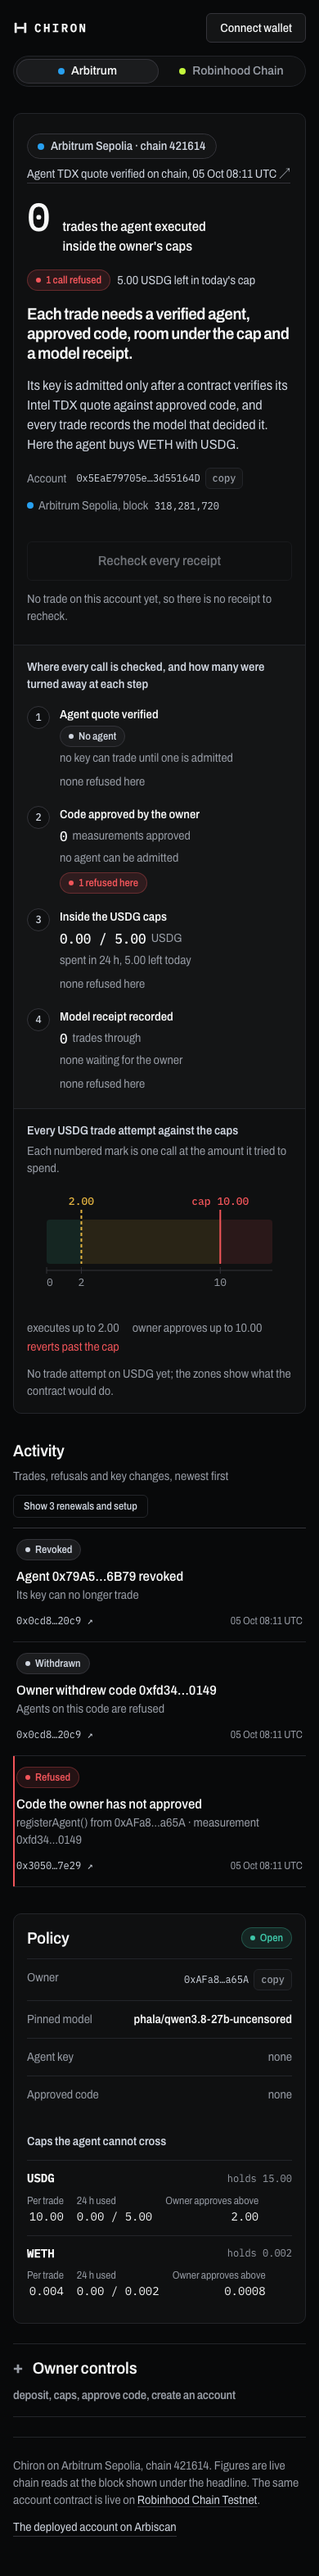
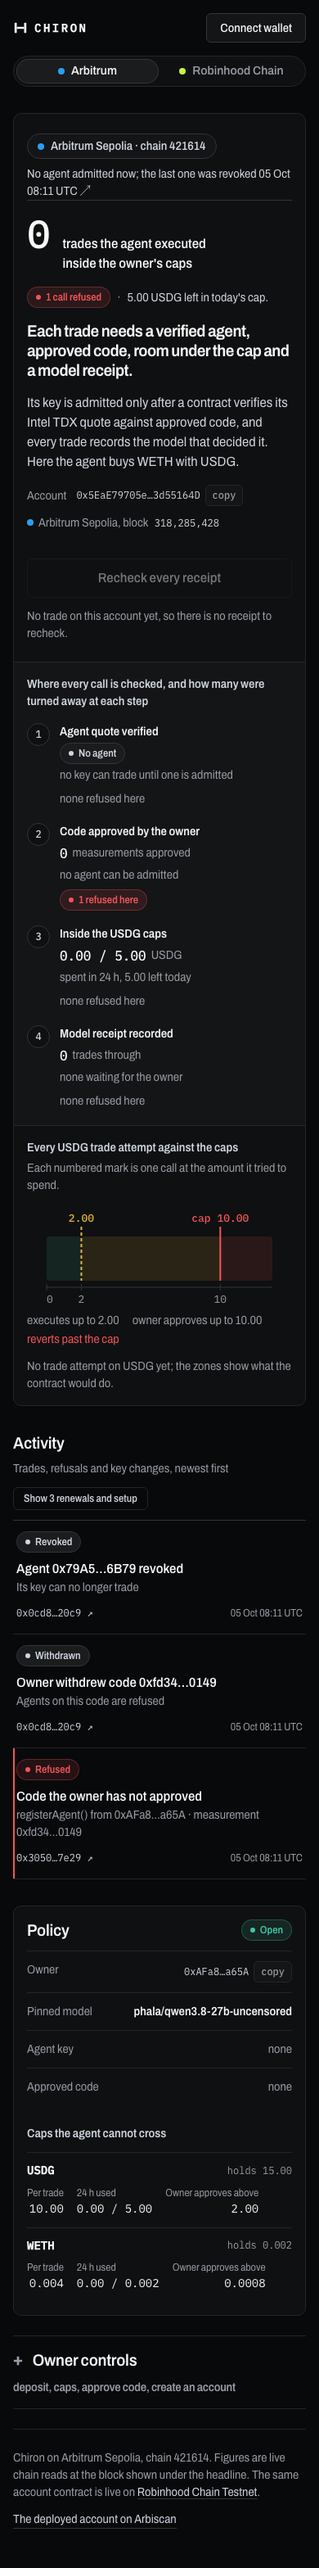
Web r12: trust link only for the currently admitted agent (revoked shown neutrally), scoped and separated refused-spend row, marks never moved off their amount (+k count, tested), compact attempt list and shorter chart on phones

diff --git a/web/src/components/CapRuler.tsx b/web/src/components/CapRuler.tsx
@@ -43,11 +43,9 @@ export function CapRuler({ token, rows }: { token: TokenRow; rows: GateRow[] }) 
     x: sx(n(r.spend!.amount)),
     kind: r.tone === 'refuse' ? 'refused' : r.tag === 'APPROVED' ? 'approved' : 'executed',
   }));
-  // Pack marks that share an outcome lane so two calls at one amount never cover each other.
-  for (const key of Object.keys(LANE) as Kind[]) {
-    const inLane = marks.filter((m) => m.kind === key).sort((a, b) => a.x - b.x);
-    for (let i = 1; i < inLane.length; i++) if (inLane[i].x - inLane[i - 1].x < 18) inLane[i].x = inLane[i - 1].x + 18;
-  }
+  // Marks stay at their true amount. Calls in one lane closer than 18px share one drawn mark with a "+k" count;
+  // the numbered list below still gives every call its own line.
+  const drawn = groupMarks(marks);
   /** "just over the cap" when an amount sits within 0.1% above a line it crossed. */
   const edge = (v: bigint) => {
     const a = n(v);
@@ -69,7 +67,7 @@ export function CapRuler({ token, rows }: { token: TokenRow; rows: GateRow[] }) 
         <p className="hint">Each numbered mark is one call at the amount it tried to spend.</p>
       </figcaption>
       <div ref={box} className="ruler-box">
-        <svg width={W} height={H} viewBox={`0 0 ${W} ${H}`} role="img" aria-label={`${token.symbol}: owner approves above ${above}, per-trade cap ${cap}. ${marks.length} attempts, listed below the chart.`}>
+        <svg width={W} height={narrow ? H - 30 : H} viewBox={`0 0 ${W} ${narrow ? H - 30 : H}`} role="img" aria-label={`${token.symbol}: owner approves above ${above}, per-trade cap ${cap}. ${marks.length} attempts, listed below the chart.`}>
           <rect className="z-ok" x={zones[0].a} y={TRACK_Y} width={zones[0].b - zones[0].a} height={TRACK_H} rx="4" />
           <rect className="z-warn" x={zones[1].a} y={TRACK_Y} width={zones[1].b - zones[1].a} height={TRACK_H} />
           <rect className="z-bad" x={zones[2].a} y={TRACK_Y} width={zones[2].b - zones[2].a} height={TRACK_H} rx="4" />
@@ -77,10 +75,11 @@ export function CapRuler({ token, rows }: { token: TokenRow; rows: GateRow[] }) 
           <line className="l-bad" x1={sx(cap)} x2={sx(cap)} y1={TRACK_Y - 12} y2={TRACK_Y + TRACK_H} />
           <text className="l-text" x={sx(above)} y={TRACK_Y - 18} textAnchor="middle">{narrow ? '' : 'approve above '}{fmtToken(token.limits.approvalAbove, d)}</text>
           <text className="l-text l-text-bad" x={sx(cap)} y={TRACK_Y - 18} textAnchor="middle">cap {fmtToken(token.limits.perTrade, d)}</text>
-          {marks.map((m) => (
+          {drawn.map(({ m, extra }) => (
             <g key={m.row.key} className={`mk mk-${m.kind}`}>
               <circle cx={m.x} cy={TRACK_Y + LANE[m.kind]} r="9" />
               <text x={m.x} y={TRACK_Y + LANE[m.kind] + 4} textAnchor="middle">{m.n}</text>
+              {extra > 0 && <text className="mk-more" x={m.x + 12} y={TRACK_Y + LANE[m.kind] - 6}>+{extra}</text>}
             </g>
           ))}
           <line className="axis" x1={PAD} x2={W - PAD} y1={TRACK_Y + TRACK_H + 8} y2={TRACK_Y + TRACK_H + 8} />
@@ -98,13 +97,13 @@ export function CapRuler({ token, rows }: { token: TokenRow; rows: GateRow[] }) 
       </div>
       {narrow && <p className="zone-key"><span>executes up to {fmtToken(token.limits.approvalAbove, d)}</span><span>owner approves up to {fmtToken(token.limits.perTrade, d)}</span><span className="bad">reverts past the cap</span></p>}
       {marks.length ? (
-        <ol className="attempts">
+        <ol className={`attempts${narrow ? ' attempts-compact' : ''}`}>
           {marks.map((m) => (
             <li key={m.row.key}>
               <span className={`an an-${m.kind}`} aria-hidden="true">{m.n}</span>
               <span className="tnum attempt-amt">{fmtToken(m.amount, d)} {token.symbol}</span>
               <span className={`attempt-word w-${m.kind}`}>{WORD[m.kind]}{edge(m.amount)}</span>
-              {m.kind === 'refused' && <span className="hint">{m.row.title.toLowerCase()}</span>}
+              {m.kind === 'refused' && !narrow && <span className="hint">{m.row.title.toLowerCase()}</span>}
             </li>
           ))}
         </ol>
@@ -113,4 +112,18 @@ export function CapRuler({ token, rows }: { token: TokenRow; rows: GateRow[] }) 
       )}
     </figure>
   );
+}
+
+/** Group marks that share an outcome lane and sit within 18px, so none covers another; x is never moved. */
+export function groupMarks<M extends { x: number; kind: string }>(marks: M[]): { m: M; extra: number }[] {
+  const out: { m: M; extra: number }[] = [];
+  for (const kind of [...new Set(marks.map((m) => m.kind))]) {
+    const lane = marks.filter((m) => m.kind === kind).sort((a, b) => a.x - b.x);
+    for (const m of lane) {
+      const last = out.length && out[out.length - 1].m.kind === kind ? out[out.length - 1] : undefined;
+      if (last && m.x - last.m.x < 18) last.extra++;
+      else out.push({ m, extra: 0 });
+    }
+  }
+  return out;
 }

diff --git a/web/src/pages/Account.tsx b/web/src/pages/Account.tsx
@@ -156,7 +156,12 @@ export function Account() {
     return [...new Set((pin?.accepted ?? []).map((h) => modelName(h) ?? short(h)))];
   }, [log.data]);
   const [checking, setChecking] = useState(false);
-  const admitted = activity?.find((r) => r.tag === 'ADMITTED');
+  // Trust link only for the agent that is admitted now: newest admission, not followed by a revoke, naming snap.agent.
+  const lastAdmit = activity?.find((r) => r.tag === 'ADMITTED');
+  const lastRevoke = activity?.find((r) => r.tag === 'REVOKED');
+  const admitIsCurrent = !!(activity && lastAdmit && snap && snap.agent !== ZERO_ADDR && lastAdmit.title.includes(short(snap.agent)) && (!lastRevoke || activity.indexOf(lastAdmit) < activity.indexOf(lastRevoke)));
+  const admitted = admitIsCurrent ? lastAdmit : undefined;
+  const revoked = !admitIsCurrent && snap && snap.agent === ZERO_ADDR ? lastRevoke : undefined;
   const blockedRows = lead && refusedRows ? refusedRows.filter((r) => r.spend && r.spend.token.toLowerCase() === lead.address.toLowerCase()) : undefined;
   const blocked = blockedRows ? blockedRows.reduce((a, r) => a + r.spend!.amount, 0n) : undefined;
   const left = lead ? (lead.limits.daily > lead.used ? lead.limits.daily - lead.used : 0n) : undefined;
@@ -175,6 +180,11 @@ export function Account() {
                   Agent TDX quote verified on chain{admitted.time !== undefined ? `, ${fmtWhen(admitted.time)}` : ''} ↗
                 </a>
               )}
+              {revoked && (
+                <a className="link trust-link trust-off" href={explorer.tx(revoked.tx)} target="_blank" rel="noreferrer">
+                  No agent admitted now; the last one was revoked{revoked.time !== undefined ? ` ${fmtWhen(revoked.time)}` : ''} ↗
+                </a>
+              )}
             </div>
             <div className="lead">
               <span className="lead-value tnum">{snap ? snap.tradeCount.toString() : '…'}</span>
@@ -182,8 +192,8 @@ export function Account() {
             </div>
             <p className="lead-sub">
               {refusedRows && <Chip tone={refusedRows.length ? 'bad' : 'neutral'}>{refusedRows.length} {refusedRows.length === 1 ? 'call' : 'calls'} refused</Chip>}
-              {blocked !== undefined && lead && blocked > 0n && <span>{fmtToken(blocked, lead.decimals)} {lead.symbol} asked for across {blockedRows!.length} refused {blockedRows!.length === 1 ? 'call' : 'calls'}, none of it spent</span>}
-              {left !== undefined && lead && <span>{fmtToken(left, lead.decimals)} {lead.symbol} left in today&apos;s cap</span>}
+              {blocked !== undefined && lead && blocked > 0n && <span>{blockedRows!.length} of them asked for {fmtToken(blocked, lead.decimals)} {lead.symbol}, none of it spent.</span>}
+              {left !== undefined && lead && <span>{fmtToken(left, lead.decimals)} {lead.symbol} left in today&apos;s cap.</span>}
             </p>
             <h1 id="hero-h" className="t-display">Each trade needs a verified agent, approved code, room under the cap and a model receipt.</h1>
             <p className="lede">

diff --git a/web/src/styles.css b/web/src/styles.css
@@ -193,6 +193,10 @@ button, input, select { font: inherit; color: inherit; }
 .attempts li > .an { grid-row: 1 / span 3; }
 .attempts li > :not(.an) { grid-column: 2; }
 .attempts .hint { padding-left: 0; }
+.attempts-compact li { display: flex; flex-wrap: wrap; align-items: center; gap: 2px var(--sp-2); }
+.mk-more { fill: var(--ink-muted); font: 600 var(--fs-12) var(--font-mono); }
+.lead-sub > span + span::before { content: '·'; margin-right: var(--sp-2); color: var(--ink-subtle); }
+.trust-off { color: var(--ink-muted); }
 .an { display: inline-grid; place-items: center; width: 20px; height: 20px; border-radius: 50%; font: 600 12px/1 var(--font-mono); color: var(--canvas); }
 .an-executed { background: var(--ok); } .an-refused { background: var(--bad); }
 .an-approved { background: transparent; color: var(--ok); box-shadow: inset 0 0 0 2px var(--ok); }

diff --git a/web/src/components/CapRuler.test.ts b/web/src/components/CapRuler.test.ts
@@ -1,0 +1,20 @@
+import { describe, expect, it } from 'vitest';
+import { groupMarks } from './CapRuler';
+
+describe('groupMarks', () => {
+  it('keeps every mark at its true amount and folds same-lane neighbours into a count', () => {
+    const marks = [
+      { x: 300, kind: 'refused' },
+      { x: 300, kind: 'refused' },
+      { x: 300, kind: 'executed' },
+      { x: 100, kind: 'refused' },
+    ];
+    const g = groupMarks(marks);
+    expect(g.map((d) => d.m.x).sort()).toEqual([100, 300, 300]);
+    expect(g.find((d) => d.m.kind === 'refused' && d.m.x === 300)!.extra).toBe(1);
+    expect(g.find((d) => d.m.kind === 'executed')!.extra).toBe(0);
+  });
+  it('draws marks 18px or more apart separately', () => {
+    expect(groupMarks([{ x: 0, kind: 'refused' }, { x: 18, kind: 'refused' }]).length).toBe(2);
+  });
+});

diff --git a/web/docs/design/review/design-audit-chiron-r11.md b/web/docs/design/review/design-audit-chiron-r11.md
@@ -1,0 +1,133 @@
+# CHIRON agent-account page: design audit, round 11
+
+Mode: AUDIT ONLY. No source edits, no server, no commits, no browser run (by instruction). Evidence: `docs/design/r11-1440.png`, `r11-390.png`, `r11-full-1440.png`, `r11-full-768.png`, `r11-full-390.png`, `r11-arb-1440.png`, `r11-arb-390.png`, `r11-arb-full-1440.png`, `r11-arb-full-768.png`, `r11-arb-full-390.png`; `r10-full-390.png` for the phone delta; `DESIGN.md` (still byte-identical to `docs/design/DESIGN-CONTRACT.md`), `src/tokens.css`, `src/styles.css`, `src/components/{CapRuler,Chip}.tsx`, `src/pages/Account.tsx`, `src/pages/account/gateRows.ts`; `design-research/tools/{contrast,overlap}.cjs`; commit `811292f` (`git show 811292f -- web/src`). The phone position of the Activity heading comes from 1:1 crops of the r10 and r11 full 390 captures over the same y band (1,800-2,800). Previous report: `design-audit-chiron-r10.md` (checked below).
+
+Classifier: OPERATE (app UI, one account console). App UI rules apply.
+
+Design Score: B-
+AI Slop Score: B
+
+Verdict in one line: round 11 closes four of the six r10 Mediums. The blocked chip pluralizes ("1 call refused"). The spend figure now says what it is ("15.000001 testUSDG asked for across 3 refused calls, none of it spent"). One noun, refused, runs through hero, strip, chart and feed. The attempt list sits on a clean two-column grid. Same-lane marks are packed, and the `--fs-13`/`--fs-64` tokens and the `styles.css` comment are fixed. It also leaves a false trust signal on Arbitrum: the hero says "Agent TDX quote verified on chain, 05 Oct 08:11 UTC" while gate 1 says "No agent" and the feed shows that agent revoked. The phone pushes Activity down another ~72px, and the new packing moves marks along the amount axis, which only data with no collisions has ever tested. Net: cleaner finish, one new High, same grade.
+
+## First impression
+
+- The page communicates **"3 trades went through, 4 calls were refused, nothing refused was spent"**. On RHC that is the brief's sentence, and it reads in the first viewport at both widths.
+- I notice **the metric row is now one run-on line at 1440**: `4 calls refused` chip, then "15.000001 testUSDG asked for across 3 refused calls, none of it spent", then 8px of gap, then "5.00 testUSDG left in today's cap" (`r11-1440.png` y~313). With the r10 semicolon gone and nothing in its place, it reads as "none of it spent 5.00 testUSDG left". The chip says 4 and the clause beside it says 3, and nothing tells the reader which call is the odd one.
+- First three things my eye goes to: **the "3"**, **the lime "Recheck every receipt" slab**, **the bold 28px headline**. The red chip is still fourth. Unchanged from r10.
+- One word: **tidier**.
+
+Page area test at 1440: top bar, hero (metric + action), four checks, caps chart, Activity, Policy, Owner controls, footer. All nameable in under 2 seconds. Trunk test: PASS.
+
+## Round 10 findings, checked against round 11
+
+| R10 finding | Status in r11 | Evidence |
+|---|---|---|
+| 001 "1 calls blocked" (Medium) | **Fixed** | `Account.tsx:184` branches on `length === 1`; `r11-arb-390.png` y~341 and `r11-arb-full-1440.png` y~313 read "1 call refused". |
+| 002 "stopped" figure overstates (Medium) | **Fixed in wording, residue moved to FINDING-002** | `Account.tsx:185` now reads "{sum} {symbol} asked for across {n} refused calls, none of it spent". That is true as written. It still adds up the owner's `approveTrade()` (4.00) and would grow with retries, but it no longer claims to measure trades stopped. "Refused" is now the only noun on the page. The semicolon is gone. What is left: the 4-vs-3 mismatch and the run-on with the next clause. |
+| 003 ragged attempt list (Medium) | **Fixed** | `styles.css:191-195`: `.attempts { align-items: start }`, each `li` is a `20px 1fr` grid with the badge spanning three rows. In `r11-full-1440.png`, items 1-3 are top-aligned and amount, outcome and reason share one left edge. The cost is on phones (FINDING-003). |
+| 004 same-outcome marks cover each other (Medium) | **Fixed for overlap, new encoding defect** | `CapRuler.tsx:46-50` sorts each lane by x and pushes any mark within 18px of its neighbor 18px right. Marks no longer cover each other, but x no longer means amount for the pushed mark. There is no unit test, and the current data never triggers it. See FINDING-004. |
+| 005 non-text contrast lines are constants (Medium) | **Not fixed (third round)** | `contrast.cjs:49` still builds the five 1.4.11 pairs from hard-coded hex. No `contrast-r11.txt` exists, so AA was not re-measured after the r11 changes. See FINDING-005. |
+| 006 phone Activity ~266px later than r9 (Medium) | **Worse** | Same y band in both captures: r10 heading ~2,166px, r11 ~2,238px (+72px). Cumulative since r9 (~1,898px): +340px. See FINDING-003. |
+| Polish: `styles.css:211` "policy first on phones" | **Fixed** | Now `styles.css:213` "Activity before Policy on phones". |
+| Polish: `--fs-13` and 64px literals | **Fixed, two new literals** | `tokens.css:28` adds `--fs-13` and `--fs-64`, used at `styles.css:175,179,182,207`. New: `.lead-value { font-size: 48px }` on phones (`:279`). Mark numerals stay `12px` literals (`:184`, `:196`). `DESIGN.md:8` and `:24` still list the scale as 12-44 and omit 48 and 64. |
+| Polish: `DESIGN.md:21` false "never cover" claim | **True for overlap, misleading for meaning** | Now backed by packing code. It does not mention that packed marks leave their amount. |
+| Polish: `.tnum` twice, `.ledger-head` split | **Not fixed** | `styles.css:20-21`; `.ledger-head` at `:217`, `:291`, `:296` (the last two in one media block). |
+| Polish: `DESIGN.md` and `DESIGN-CONTRACT.md` duplicated | **Not fixed** | `cmp` reports identical. |
+| Polish: `spentToken` double `try` | **Not fixed** | `gateRows.ts:121` wraps `spentBy`, which already catches at `:109`. |
+| Polish: boundary marks on threshold lines | **Not fixed (since r8)** | Mark 4 is centered on the amber dashed line and mark 3 on the red cap line (`r11-full-1440.png` x~350 and x~1,003 at 1:1; `r11-full-390.png` crop x~98, x~268). |
+| Polish: hero label wrap, empty right column, headline weight, mixed scope, trust-link styling, marks not linked to rows, Arbitrum empty column | **Not fixed** | All visible unchanged in `r11-1440.png` and `r11-arb-full-1440.png`. |
+
+## Brief compliance (Web3-grade rules)
+
+| Rule | Delivered | Gap |
+|---|---|---|
+| (1) Lead with the primary metric | The 64px mono figure leads on both chains and both widths (`r11-390.png` y~265). | "3" is `snap.tradeCount` over all tokens (it includes "Trade 3", the Paxos USDG buy). The chart beside it shows 2 executed testUSDG marks. On Arbitrum the lead is a 64px "0": an empty state rendered as a headline number. |
+| (2) Every number states what it means | Refused count, "asked for ... none of it spent", cap left today, refusals per check, a numbered list with outcome, distance past the line and reason. | "4 calls refused" beside "across 3 refused calls": two denominators next to each other with no bridge (FINDING-002). |
+| (3) Semantic colors plus one accent | Four tones plus the network accent, true in tokens, `Chip.tsx`, chart and feed. | The non-text contrast evidence is still constant (FINDING-005). |
+| (4) Plain-language summary before every signed action | Five `.sign-summary` blocks, unchanged since r10 (`Account.tsx:45`, `OwnerActions.tsx`). | Still not observed rendered: Owner controls are collapsed in every capture and there is no wallet-connected capture. |
+| (5) Trust signals | Network badge with chain id, timestamped admission link, block stamp with network dot, explorer link and UTC time per row. | On Arbitrum the admission link vouches for an agent the owner has revoked (FINDING-001). The strongest claim on the page is still styled as a 14px underline. |
+
+## Axes (0-10)
+
+| Axis | Score | Evidence |
+|---|---|---|
+| Hierarchy | 8.0 | The figure still leads and the refused chip is beside it. Unchanged losses: the 28px bold mechanism headline is the third-heaviest object; ~290px of empty right column under the recheck hint at 1440 (`r11-1440.png` y~272-563); the 22ch cap wraps the lead label with ~500px free. New: the metric row's clauses run together at 1440. |
+| Typography | 8.0 | Up from 7.5. The attempt list has one left edge per item, the dangling semicolon is gone, and 13 and 64 are tokens. Losses: a 48px phone literal and two 12px literals; `DESIGN.md` scale omits 48 and 64; the lead label still hangs ~30px below the numeral's baseline. |
+| Color | 8.5 | Unchanged. A strict four-tone system plus one network accent; the owner-approved trade is mint everywhere. The non-text contrast lines still cannot fail. Lime on near-black stays the predictable crypto look, rescued by no glow or gradient. |
+| Density | 6.0 | Down from 6.5. Phone Activity heading at ~2,238px (r9 ~1,898, r10 ~2,166). Every attempt item now takes 2-3 lines at 390 because outcome moved to its own grid row (`r11-full-390.png` crop: five items span ~360px). The chart keeps a fixed 150px SVG with ~45px dead under the ticks once zone labels leave. Arbitrum 1440 still has ~300px of empty column under a three-row feed. The Arbitrum chart spends ~270px to say no attempt exists. |
+| Components | 7.5 | Up from 7.0. The chip pluralizes, the attempt list grid is right, and marks no longer collide. Losses: packing moves marks along the amount axis with no test (FINDING-004); marks still do not link to feed rows; `.tnum` and `.ledger-head` still duplicated; `spentToken` dead `try`. |
+| Mobile | 7.0 | Down from 7.5. The metric, chip and recheck button still sit in the first 390x844 viewport, with no horizontal scroll. Losses: Activity is later again; the metric row is a chip, a two-line clause and a third line (`r11-390.png` y~330-425); marks 4 and 5 touch at 390 (centers ~20px apart, r=9) with mark 4 split by the dashed line. |
+| Consistency | 7.5 | Up from 7.0. One noun (refused) across hero, strip, chart and feed; the comment and tokens are fixed. Losses: two identical contract files; the type scale in `DESIGN.md` no longer matches `tokens.css`; duplicated CSS rules survive a fourth round. |
+| Evidence / clarity | 7.0 | Down from 7.5. The spend figure is now honest, and the four refusal counts still reconcile (1+1+1 in the strip plus "1 more refused after the checks"). Losses: a timestamped "verified" link for a revoked agent on Arbitrum (FINDING-001); 4 vs 3 beside each other; non-text contrast constants; the new `overlap.cjs` "0 overlaps" result runs on data with no same-lane collision and shows no forced-red control, so it cannot speak for the packing it was written to back. |
+
+## Findings by severity
+
+### High
+
+**FINDING-001: the hero's trust link vouches for a revoked agent.** `Account.tsx:159` sets `admitted = activity?.find((r) => r.tag === 'ADMITTED')`, the newest admission ever, with no check against `snap.agent` or a later `AgentRevoked`. On Arbitrum (`r11-arb-full-1440.png`, `r11-arb-390.png`) the first line of the hero reads "Agent TDX quote verified on chain, 05 Oct 08:11 UTC ↗". Below it, gate 1 says "No agent: no key can trade until one is admitted", Policy says "Agent key: none", and the first feed row is "Agent 0x79A5...6B79 revoked" at 05 Oct 08:11. The page's product claim is that only a currently attested key can trade. A trust signal that outlives its revocation is exactly what that claim is supposed to rule out, and it sits in the most-read line of the page. RHC renders correctly only because its latest agent is still admitted. Fix: render the link only when `snap.agent !== ZERO_ADDR` and the admission row's agent equals `snap.agent`. Otherwise show a neutral line ("No agent admitted; last one revoked 05 Oct 08:11 UTC ↗" linking the revoke tx). Add a `gateRows`-level test with an admit-then-revoke log, and confirm it fails against the current `find`.
+
+### Medium
+
+**FINDING-002: the metric row runs on and carries two counts.** `Account.tsx:183-186` puts three items in a flex row with an 8px gap and no separator. At 1440 they render as one line: "4 calls refused | 15.000001 testUSDG asked for across 3 refused calls, none of it spent 5.00 testUSDG left in today's cap" (`r11-1440.png` y~313). The eye cannot tell where the spend clause ends and the cap clause begins. The chip says 4 and the clause says 3. The fourth (`registerAgent()`, no amount) is never named here, so a reader has to work out that the clause is scoped to calls with a testUSDG amount. Fix: end the spend clause with a period or put a middle dot between items (`.lead-sub > span + span::before { content: '·' }`), and either name the scope ("3 of them asked for 15.000001 testUSDG; none was spent") or drop the count from the clause, since the chip already gives it.
+
+**FINDING-003: on a phone, Activity has moved down for the second round running.** The heading sits at ~2,238px in r11, ~2,166px in r10 and ~1,898px in r9: +340px in two rounds. The r11 cause is the attempt-list grid. At 390 each item now stacks amount, outcome and reason on separate rows (`r11-full-390.png`, crop 1,800-2,370), where r10 kept short outcomes inline. The r10 causes are untouched: the list repeats what the feed holds, and the 150px SVG keeps ~45px dead after zone labels move to the key (`CapRuler.tsx:9`, `:93-96`). Fix: under 560px, render each attempt as one line (badge, amount, outcome word); the reason is already in the feed. Shrink `H` by the zone-label band when `narrow`. Put the mark number on its feed row so the mapping survives. Target: Activity at or above ~1,900px.
+
+**FINDING-004: packing moves marks along the amount axis.** `CapRuler.tsx:47-50` resolves a collision by setting `inLane[i].x = inLane[i - 1].x + 18`. In this chart x is the amount, so a pushed mark is drawn at a value it never asked for. Five refused retries of one 10.000001 trade become a 72px train that reads as five rising amounts. A pushed executed mark at the approval line lands inside "owner approves". A cluster near the right end paints past `W - PAD` (the SVG is `overflow: visible`). None of this has been seen: the RHC data has no two same-lane marks within 18px, Arbitrum has no marks, there is no `CapRuler` test, and `overlap.cjs` shows no forced-red run. Fix: keep x fixed and resolve within the lane on y (offset alternate marks ±7px, or add a "×5" count badge to one mark). Add a test with two identical refused rows asserting equal `cx` and distinct `cy` (or one mark with a count). Break it once to see it go red.
+
+**FINDING-005: non-text contrast lines are constants (r9 FINDING-002, r10 FINDING-005, untouched).** `contrast.cjs:45-50` composites hard-coded `#3ec6a8`, `#e3b341`, `#f2555a` at 0.12 alpha. Changing `--bad` or `--warn-wash` in `tokens.css` cannot move these numbers, and no control run reaches them. No `contrast-r11.txt` was produced, so the r11 text changes were not re-measured either. Fix: read the computed fill and stroke of `.mk-*`, `.l-warn`, `.l-bad` and the `.z-*` rect under each in the page loop. Add a control that forces `--warn-wash` to 0.9 alpha and confirm one non-text line turns red.
+
+### Polish
+
+- Boundary marks 3 and 4 still centered on the lines they crossed (carried since r8); at 390 mark 4 is split by the dashed line and touches mark 5.
+- Hero: the lead label wraps at 22ch with ~500px free; the bold 28px mechanism headline outweighs the refused chip; ~290px of empty right column at 1440.
+- Mixed scope: "3" counts all tokens (Trade 3 is Paxos USDG), and its neighbors and chart are testUSDG.
+- Arbitrum lead: a 64px "0" headlines an empty account. "No trade yet" at the label weight, with the refused chip beside it, says the same with less shout.
+- Trust link styled as a plain 14px underline; once FINDING-001 is fixed, give the verified state an ok-toned glyph.
+- Chart marks do not link to feed rows; feed rows carry no mark number.
+- `.lead-value` 48px phone literal (`styles.css:279`), 12px numeral literals (`:184`, `:196`); `DESIGN.md:8,24` scale omits 48 and 64.
+- `.tnum` declared twice (`styles.css:20-21`); `.ledger-head` has two rules in one media block (`:291`, `:296`).
+- `DESIGN.md` and `docs/design/DESIGN-CONTRACT.md` identical; make one a pointer.
+- `gateRows.ts:121` `spentToken` wraps an already-catching `spentBy` in a second `try`.
+- Arbitrum 1440: ~300px empty left column under a three-row feed (since r6).
+- `overlap.cjs` drives Playwright's headless Chromium; the standing rule for this machine is the Brave harness.
+
+## AI slop read
+
+Nothing new in the slop register this round. The changes are copy, alignment and a CSS grid. One big number with a full-sentence label and its risk counterpart beside it is still the opposite of the decorative stat row. The chart's geometry comes from the contract's branches. Lime on near-black stays calibration look 2, rescued by no glow, halo, gradient or grid, and by the accent following the network. Holds at B; not A because the palette is still guessable from "crypto console".
+
+Litmus: brand unmistakable in first screen YES; one strong anchor YES (the figure); scannable by headings YES; one job per section YES; cards necessary YES (sheet and Policy only); motion improves hierarchy N/A (color transitions only, reduced motion honored at `styles.css:301`); premium without shadows YES.
+
+## Goodwill (RHC, 390, primary flow)
+
+```
+Goodwill: 70
+  Land on page          70 -> 85  (+10 figure and refused count in first viewport; +5 timestamped admission)
+  Read the metric row   85 -> 85  ( 0  "none of it spent" is honest; 4 vs 3 costs a second read)
+  Tap Recheck           85 -> 95  (+10 verdict in place, per-row chips; carried from r10 capture)
+  Read the chart        95 -> 95  ( 0  five marks, five aligned items)
+  Find the trades       95 -> 85  (-10 Activity ~2,238px down, list repeats the feed)
+  Read a refusal        85 -> 90  (+5  named by its custom error, counted under its check)
+  FINAL: 90/100 healthy
+```
+
+On Arbitrum: landing is -10, not +5. The verified-admission link contradicts "No agent" two blocks below, and a trust page that contradicts itself spends the reservoir it exists to fill.
+
+## What r11 got right
+
+- It took four of six r10 Mediums at their root: the pluralization, the honest spend label, the list grid and a single noun.
+- "None of it spent" is the consequence the brief asked every number to state, in four words.
+- The attempt list is now a real two-column grid; badge, amount, outcome and reason read as one unit at 1440 and 768.
+- Tokens caught up with the code (`--fs-13`, `--fs-64`) and the stale phone-order comment is gone.
+- The 768 capture is new evidence and holds up: hero stacks cleanly, gates go 2x2 without the rail, the list goes to two columns, no overlap.
+
+## Quick wins (under 30 minutes each)
+
+1. FINDING-001: gate the trust link on `snap.agent === admitted agent`; neutral "last one revoked" line otherwise.
+2. FINDING-002: a separator between metric-row items and drop the "across 3" count.
+3. FINDING-004: resolve lane collisions on y, not x; one test with two identical refused rows.
+4. FINDING-003 (part): one-line attempt items and a shorter SVG under 560px.
+5. Delete the duplicate `.tnum` and `.ledger-head` rules; add 48 and 64 to `DESIGN.md:8`.
+
+Blind spot: no live browser run (by instruction). Sign-summary blocks, Owner controls, wallet-connected states, hover and focus rings, the tx toast and the recheck verdict were not observed rendered this round (no r11 recheck capture). Positions come from static captures and 1:1 crops, not DevTools. No r11 contrast run exists, so AA is assumed from r10. FINDING-004's failure cases are read from code, not seen in a render, because no capture has same-lane collisions.
+
+AXES: avg=7.4 min=6.0

diff --git a/web/DESIGN.md b/web/DESIGN.md
@@ -18,7 +18,7 @@ System: `linear.app` from ~/.config/design-md (near-black product canvas, tiered
 Primary accent = the network's color (action, focus, network dot). Every chip carries its word; color never stands alone.
 
 ## Chart
-Signature: "Every trade attempt against the caps", on the sheet under the four checks. One axis in the lead token, three zones (executes / owner approves / reverts) split by the approval line (amber dashed) and the per-trade cap (red). Each call is a numbered mark in its outcome lane (executed, owner-approved, refused) and marks in one lane closer than 18px are pushed apart, so two calls at the same amount never cover each other; the numbered list under the chart gives each mark its exact amount, outcome, distance past a line it just crossed, and the refusal reason, so nothing depends on hover. Drawn at the container's real pixel width (ResizeObserver): chart text stays 13px and mark numerals 12px on phones, where zone names move into a text key.
+Signature: "Every trade attempt against the caps", on the sheet under the four checks. One axis in the lead token, three zones (executes / owner approves / reverts) split by the approval line (amber dashed) and the per-trade cap (red). Each call is a numbered mark in its outcome lane (executed, owner-approved, refused) marks stay at their true amount, and calls in one lane closer than 18px share one mark with a "+k" count, so no mark covers another; the numbered list under the chart gives each mark its exact amount, outcome, distance past a line it just crossed, and the refusal reason, so nothing depends on hover. Drawn at the container's real pixel width (ResizeObserver): chart text stays 13px and mark numerals 12px on phones, where zone names move into a text key.
 
 ## Type scale and contrast (WCAG 2.1 AA)
 Scale 12 / 13 (chart) / 14 / 16 / 20 / 28 / 44; 12px only for mono metadata (hashes, times). --ink-subtle raised to #989da6. `design-research/tools/contrast.cjs` measures every rendered text node (HTML and SVG) on both chains at 1440 and 390 against its composited background and fails below 4.5:1 (3:1 for large text); disabled controls excluded per WCAG 1.4.3.

diff --git a/web/docs/design/DESIGN-CONTRACT.md b/web/docs/design/DESIGN-CONTRACT.md
@@ -18,7 +18,7 @@ System: `linear.app` from ~/.config/design-md (near-black product canvas, tiered
 Primary accent = the network's color (action, focus, network dot). Every chip carries its word; color never stands alone.
 
 ## Chart
-Signature: "Every trade attempt against the caps", on the sheet under the four checks. One axis in the lead token, three zones (executes / owner approves / reverts) split by the approval line (amber dashed) and the per-trade cap (red). Each call is a numbered mark in its outcome lane (executed, owner-approved, refused) and marks in one lane closer than 18px are pushed apart, so two calls at the same amount never cover each other; the numbered list under the chart gives each mark its exact amount, outcome, distance past a line it just crossed, and the refusal reason, so nothing depends on hover. Drawn at the container's real pixel width (ResizeObserver): chart text stays 13px and mark numerals 12px on phones, where zone names move into a text key.
+Signature: "Every trade attempt against the caps", on the sheet under the four checks. One axis in the lead token, three zones (executes / owner approves / reverts) split by the approval line (amber dashed) and the per-trade cap (red). Each call is a numbered mark in its outcome lane (executed, owner-approved, refused) marks stay at their true amount, and calls in one lane closer than 18px share one mark with a "+k" count, so no mark covers another; the numbered list under the chart gives each mark its exact amount, outcome, distance past a line it just crossed, and the refusal reason, so nothing depends on hover. Drawn at the container's real pixel width (ResizeObserver): chart text stays 13px and mark numerals 12px on phones, where zone names move into a text key.
 
 ## Type scale and contrast (WCAG 2.1 AA)
 Scale 12 / 13 (chart) / 14 / 16 / 20 / 28 / 44; 12px only for mono metadata (hashes, times). --ink-subtle raised to #989da6. `design-research/tools/contrast.cjs` measures every rendered text node (HTML and SVG) on both chains at 1440 and 390 against its composited background and fails below 4.5:1 (3:1 for large text); disabled controls excluded per WCAG 1.4.3.
